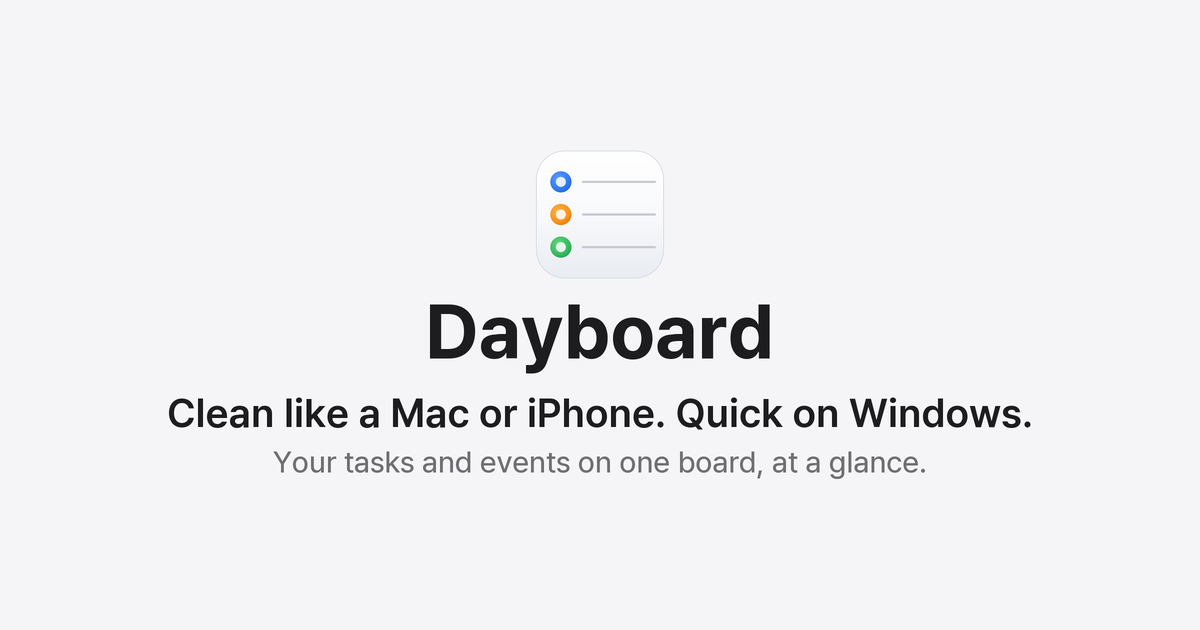
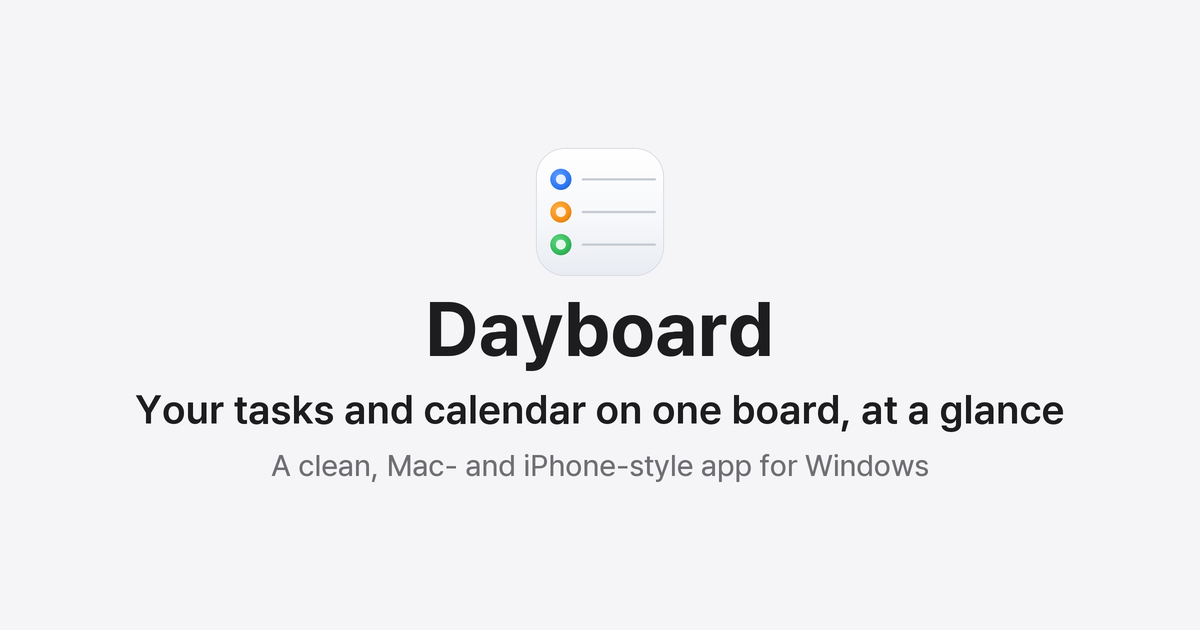
Update the Dayboard pages and pictures for 1.2.10

diff --git a/index.html b/index.html
@@ -17,7 +17,7 @@
 <meta property="og:image" content="https://nowsummer.github.io/Dayboard/images/og-card.png">
 <meta property="og:image:width" content="1200">
 <meta property="og:image:height" content="630">
-<meta property="og:image:alt" content="Dayboard: Mac·iPhone처럼 깔끔하게, Windows에서 빠릿하게">
+<meta property="og:image:alt" content="Dayboard: 할 일과 일정을 현황판처럼 한눈에 보는 Windows 앱">
 <meta property="og:locale" content="ko_KR">
 <meta name="twitter:card" content="summary_large_image">
 <link rel="icon" href="assets/icon.png">

diff --git a/en/index.html b/en/index.html
@@ -17,7 +17,7 @@
 <meta property="og:image" content="https://nowsummer.github.io/Dayboard/images/en/og-card.png">
 <meta property="og:image:width" content="1200">
 <meta property="og:image:height" content="630">
-<meta property="og:image:alt" content="Dayboard: clean like a Mac or iPhone, quick on Windows">
+<meta property="og:image:alt" content="Dayboard: your tasks and calendar on one board, at a glance">
 <meta property="og:locale" content="en_US">
 <meta name="twitter:card" content="summary_large_image">
 <link rel="icon" href="../assets/icon.png">
